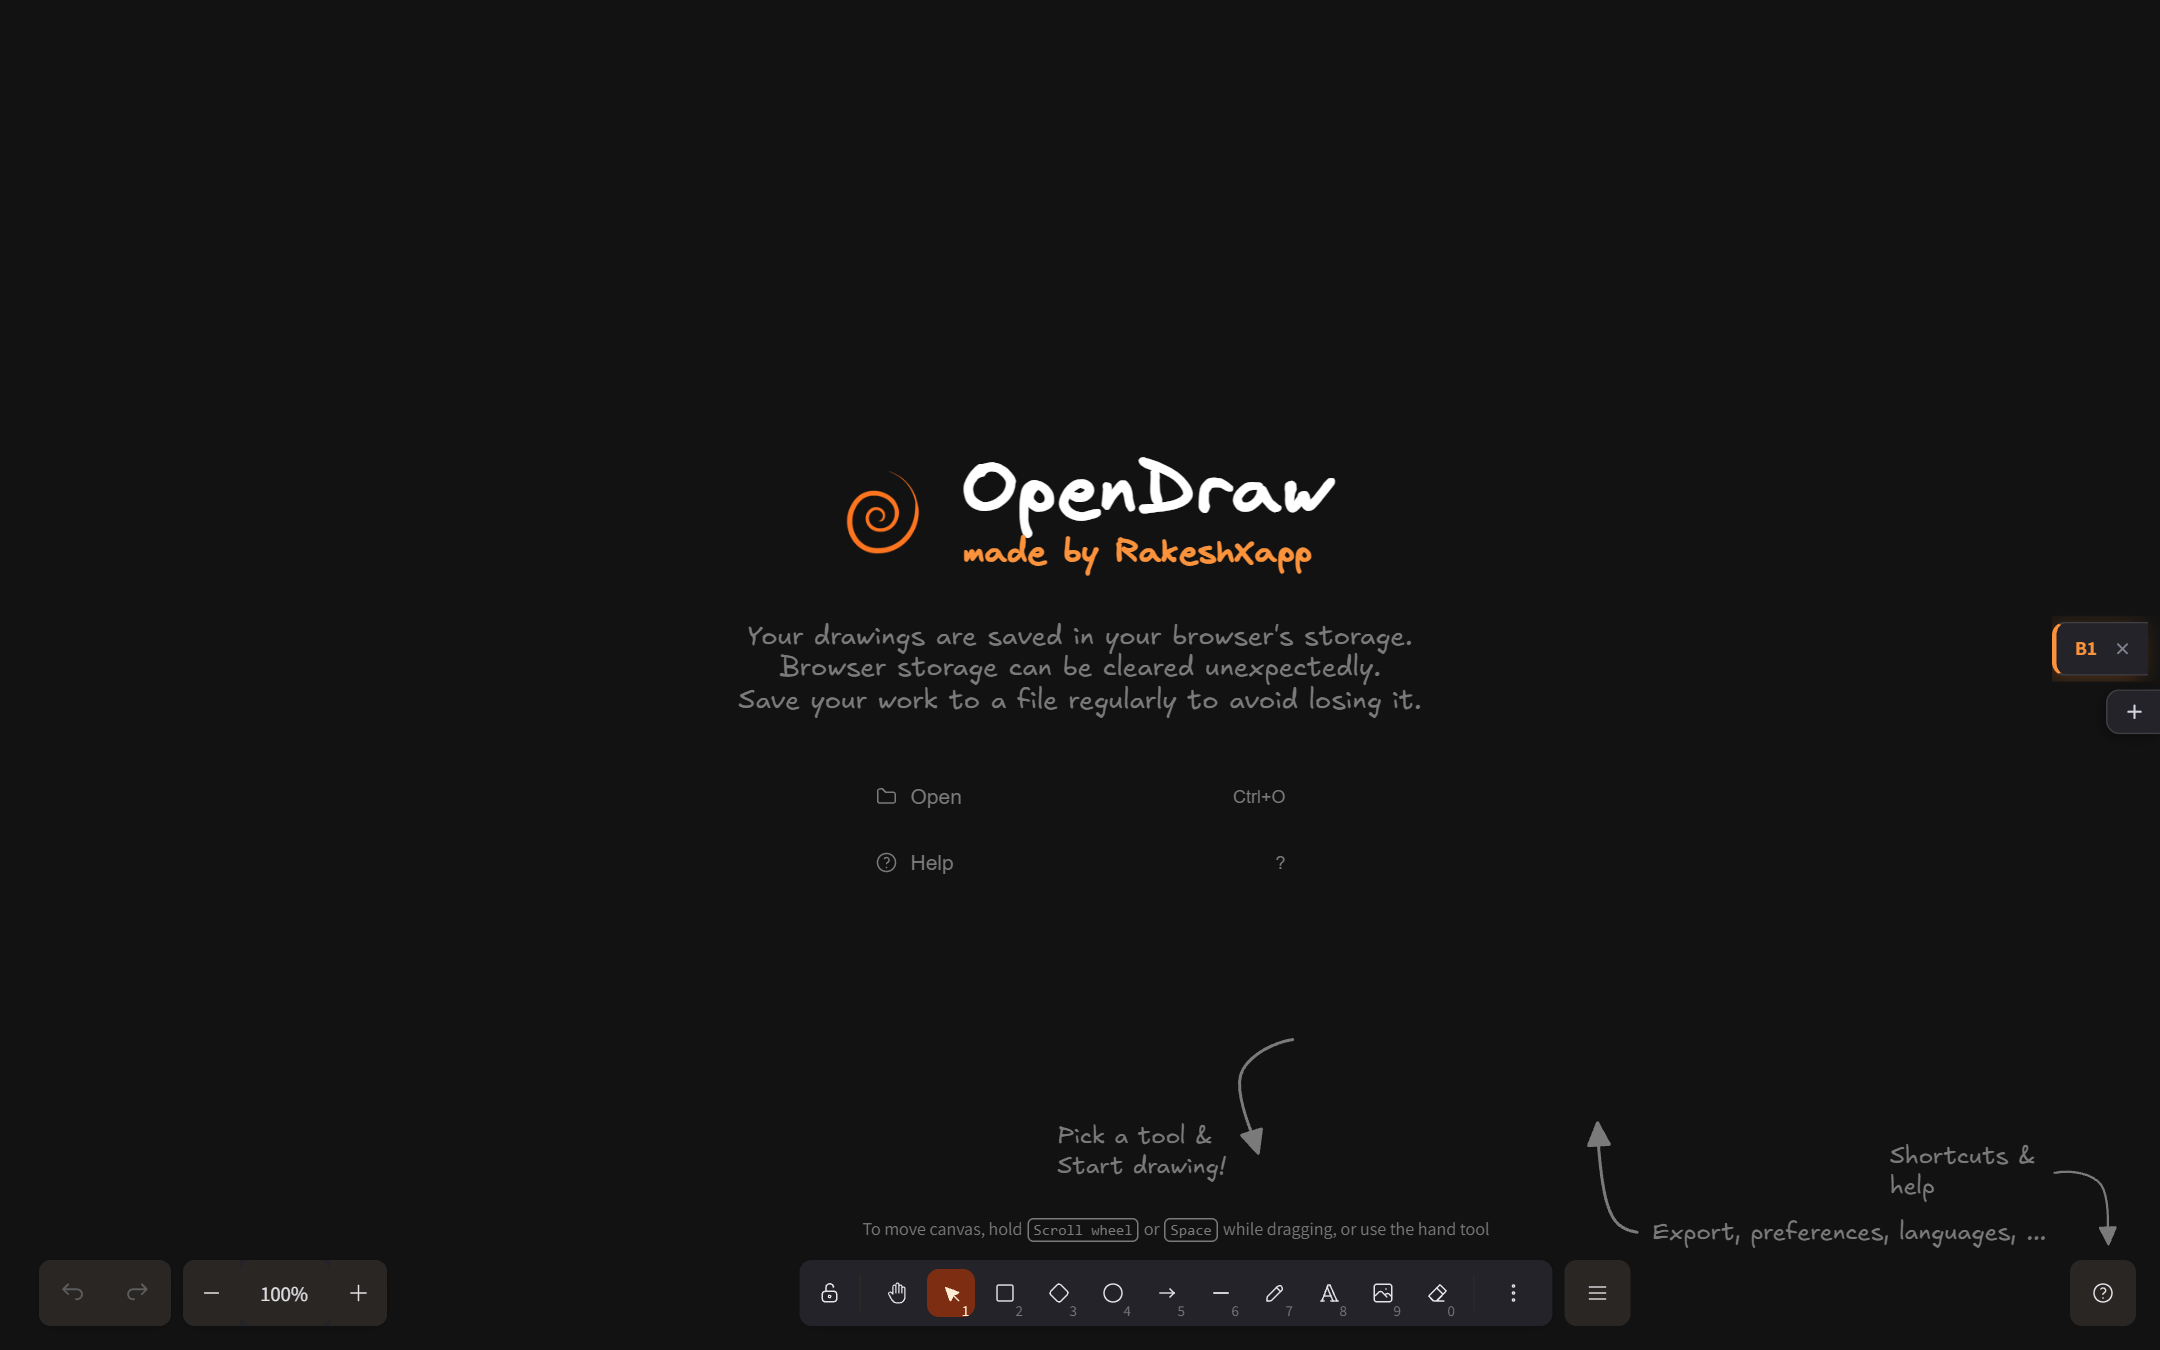
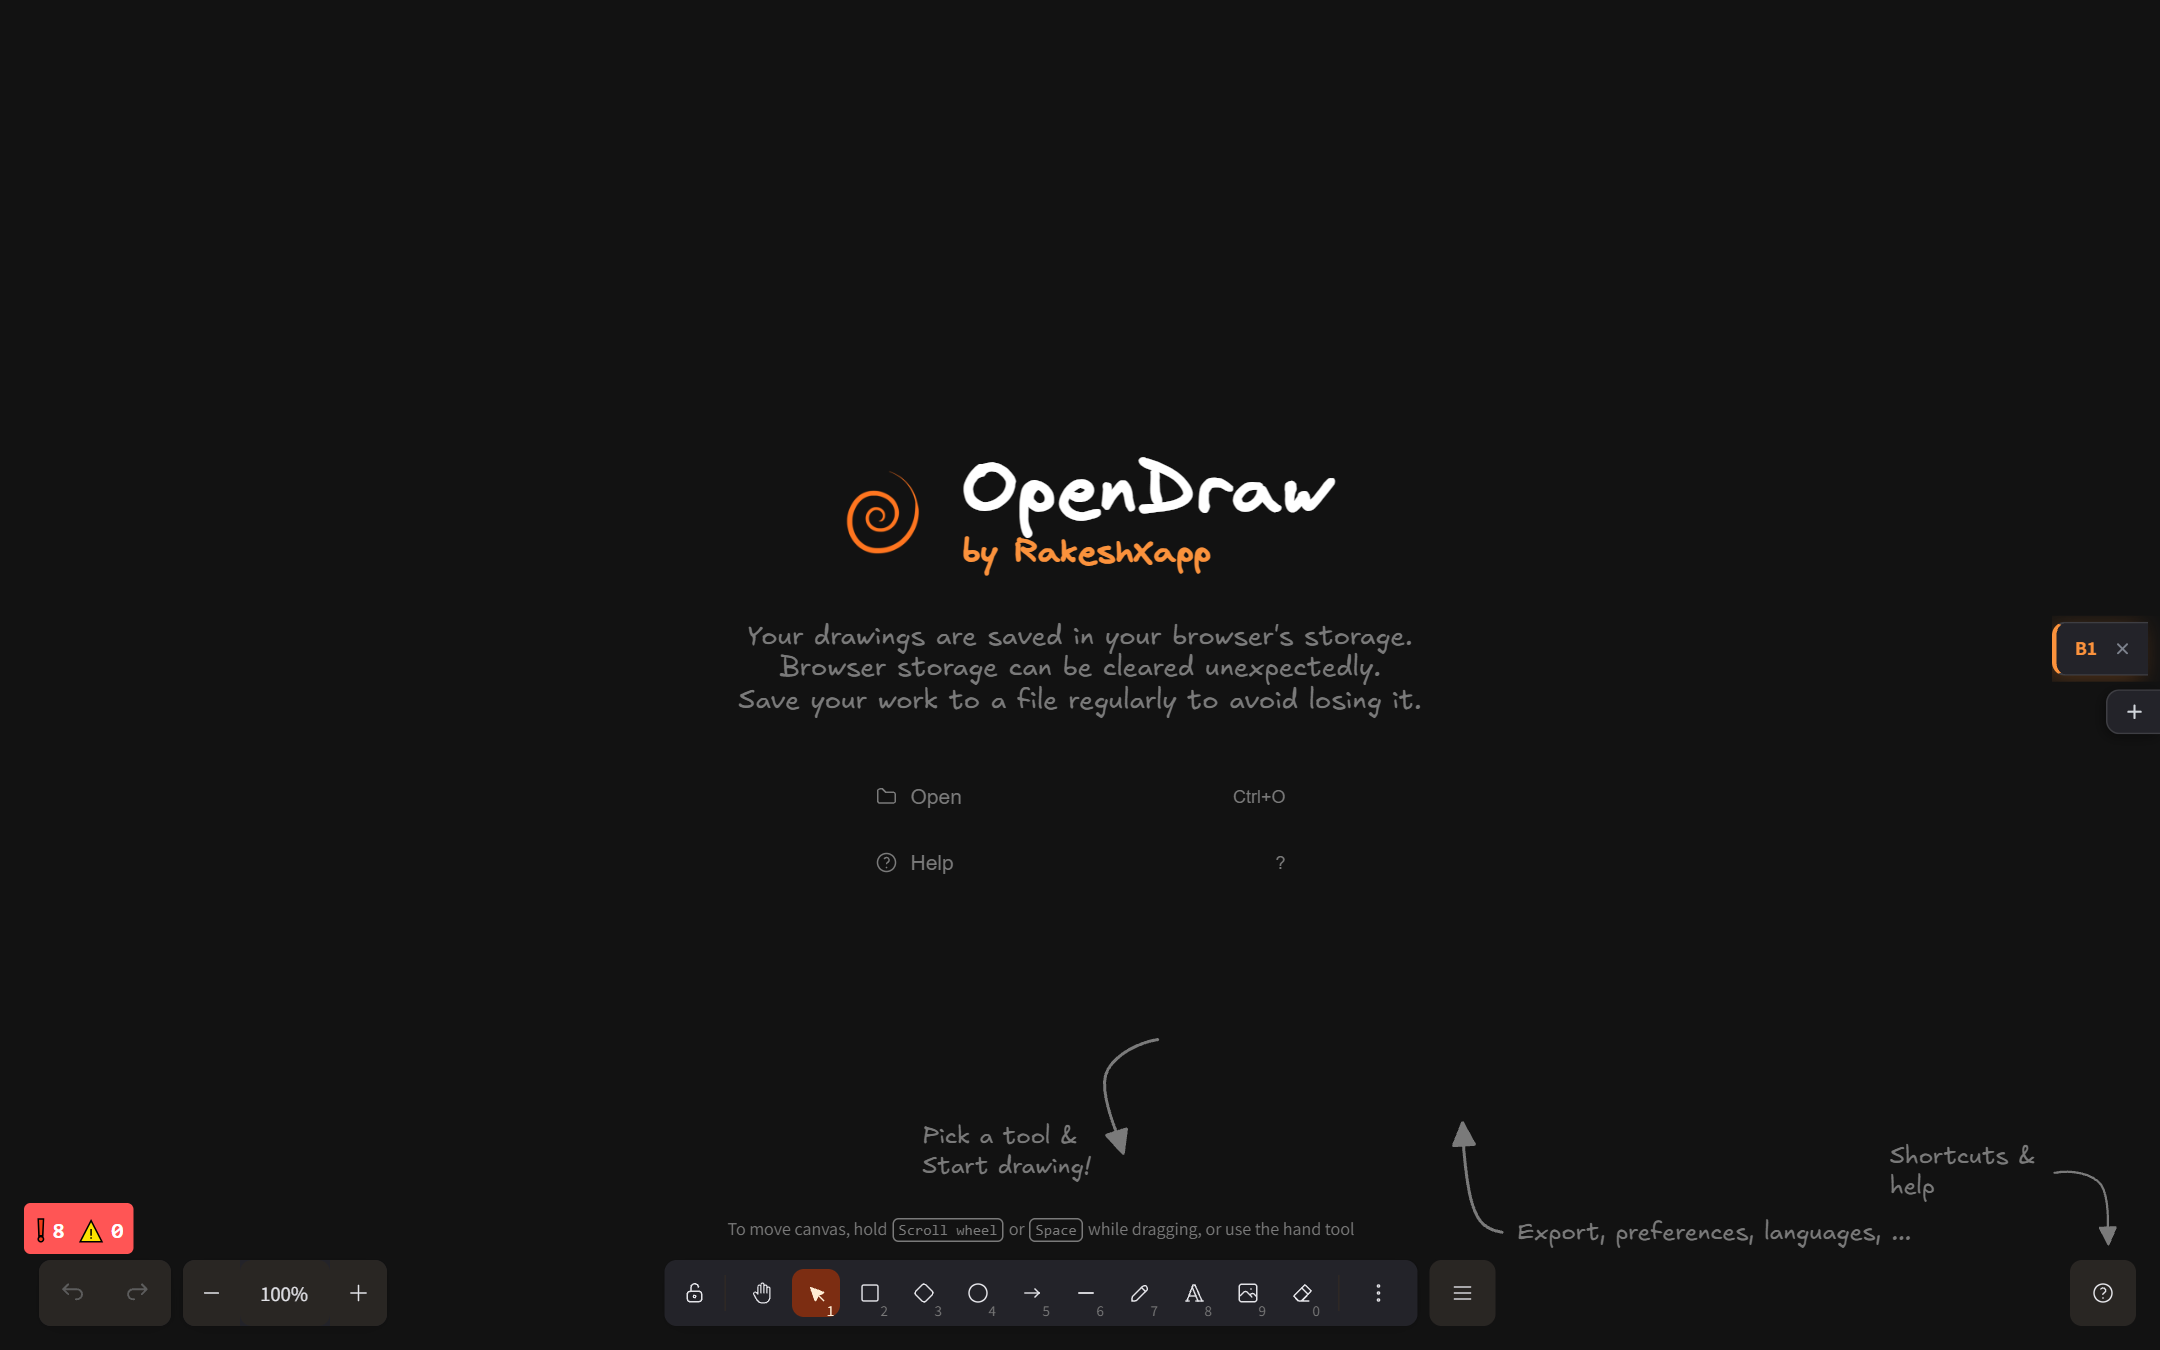
fix(ui): center bottom toolbar at 50% horizontal center

diff --git a/packages/excalidraw/css/styles.scss b/packages/excalidraw/css/styles.scss
@@ -485,6 +485,9 @@ body.excalidraw-cursor-resize * {
     }
 
     &__center {
+      position: absolute;
+      left: 50%;
+      transform: translateX(-50%);
       justify-content: center;
 
       .shapes-section {
